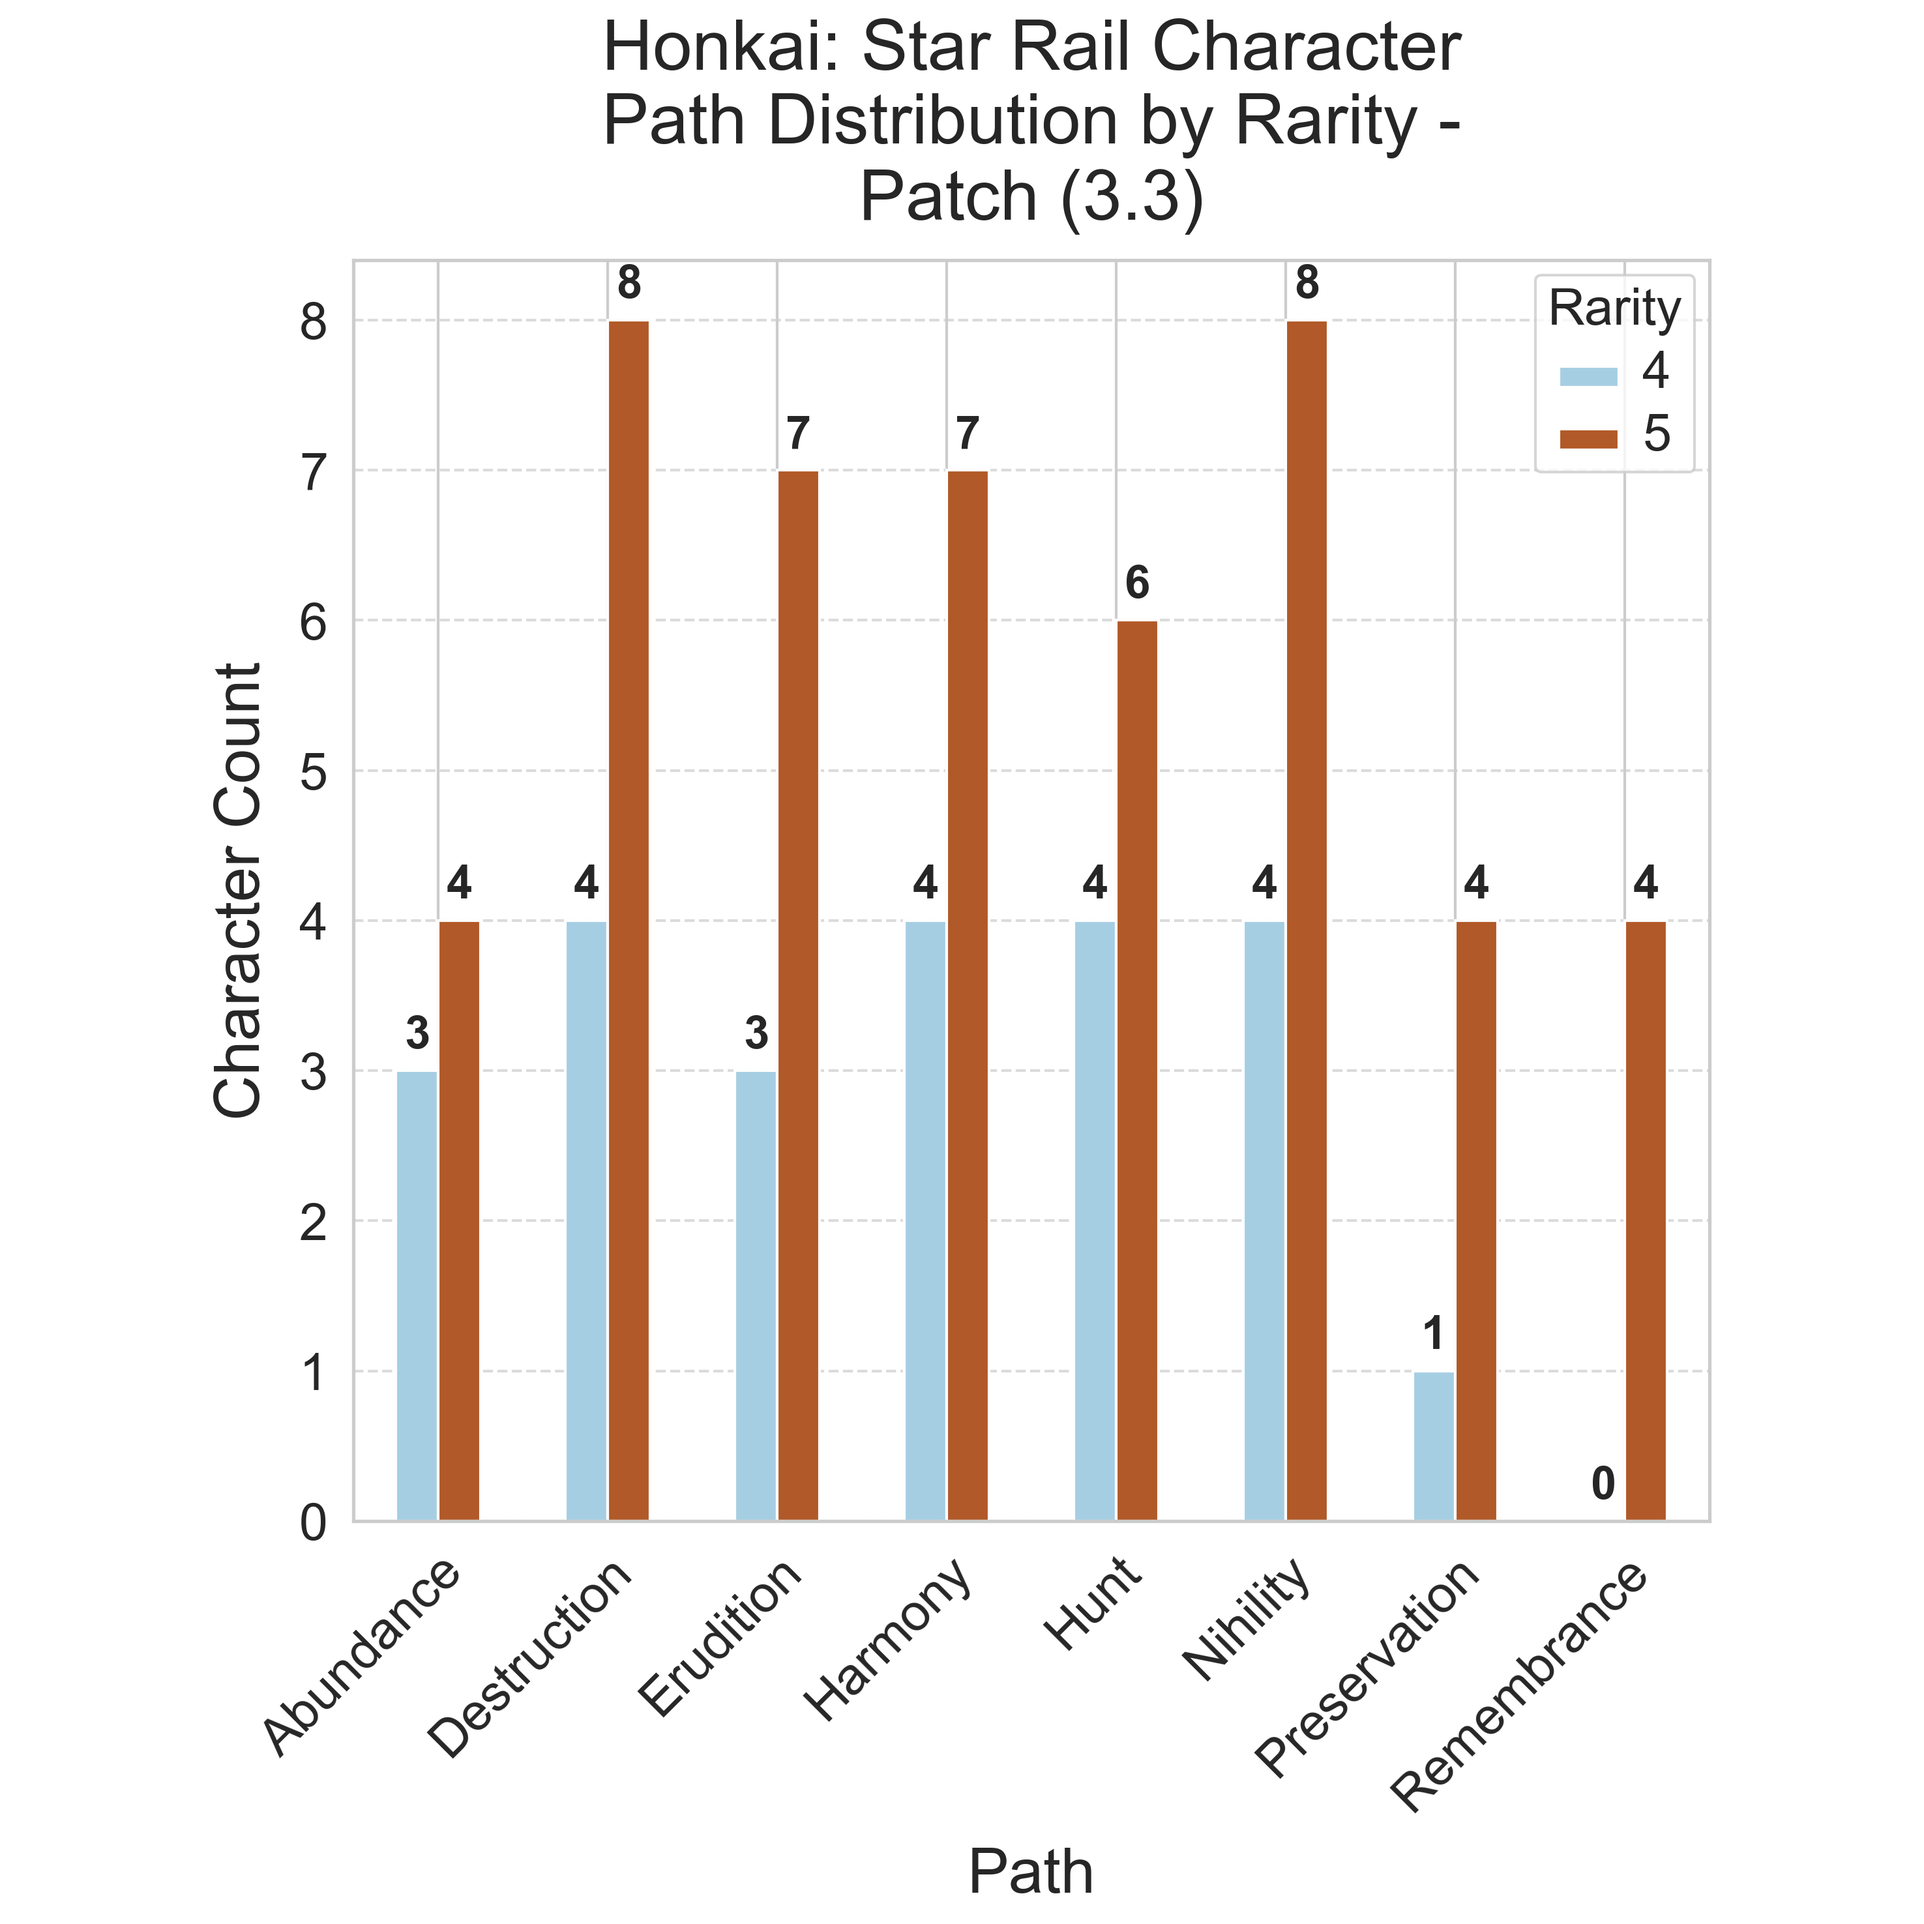
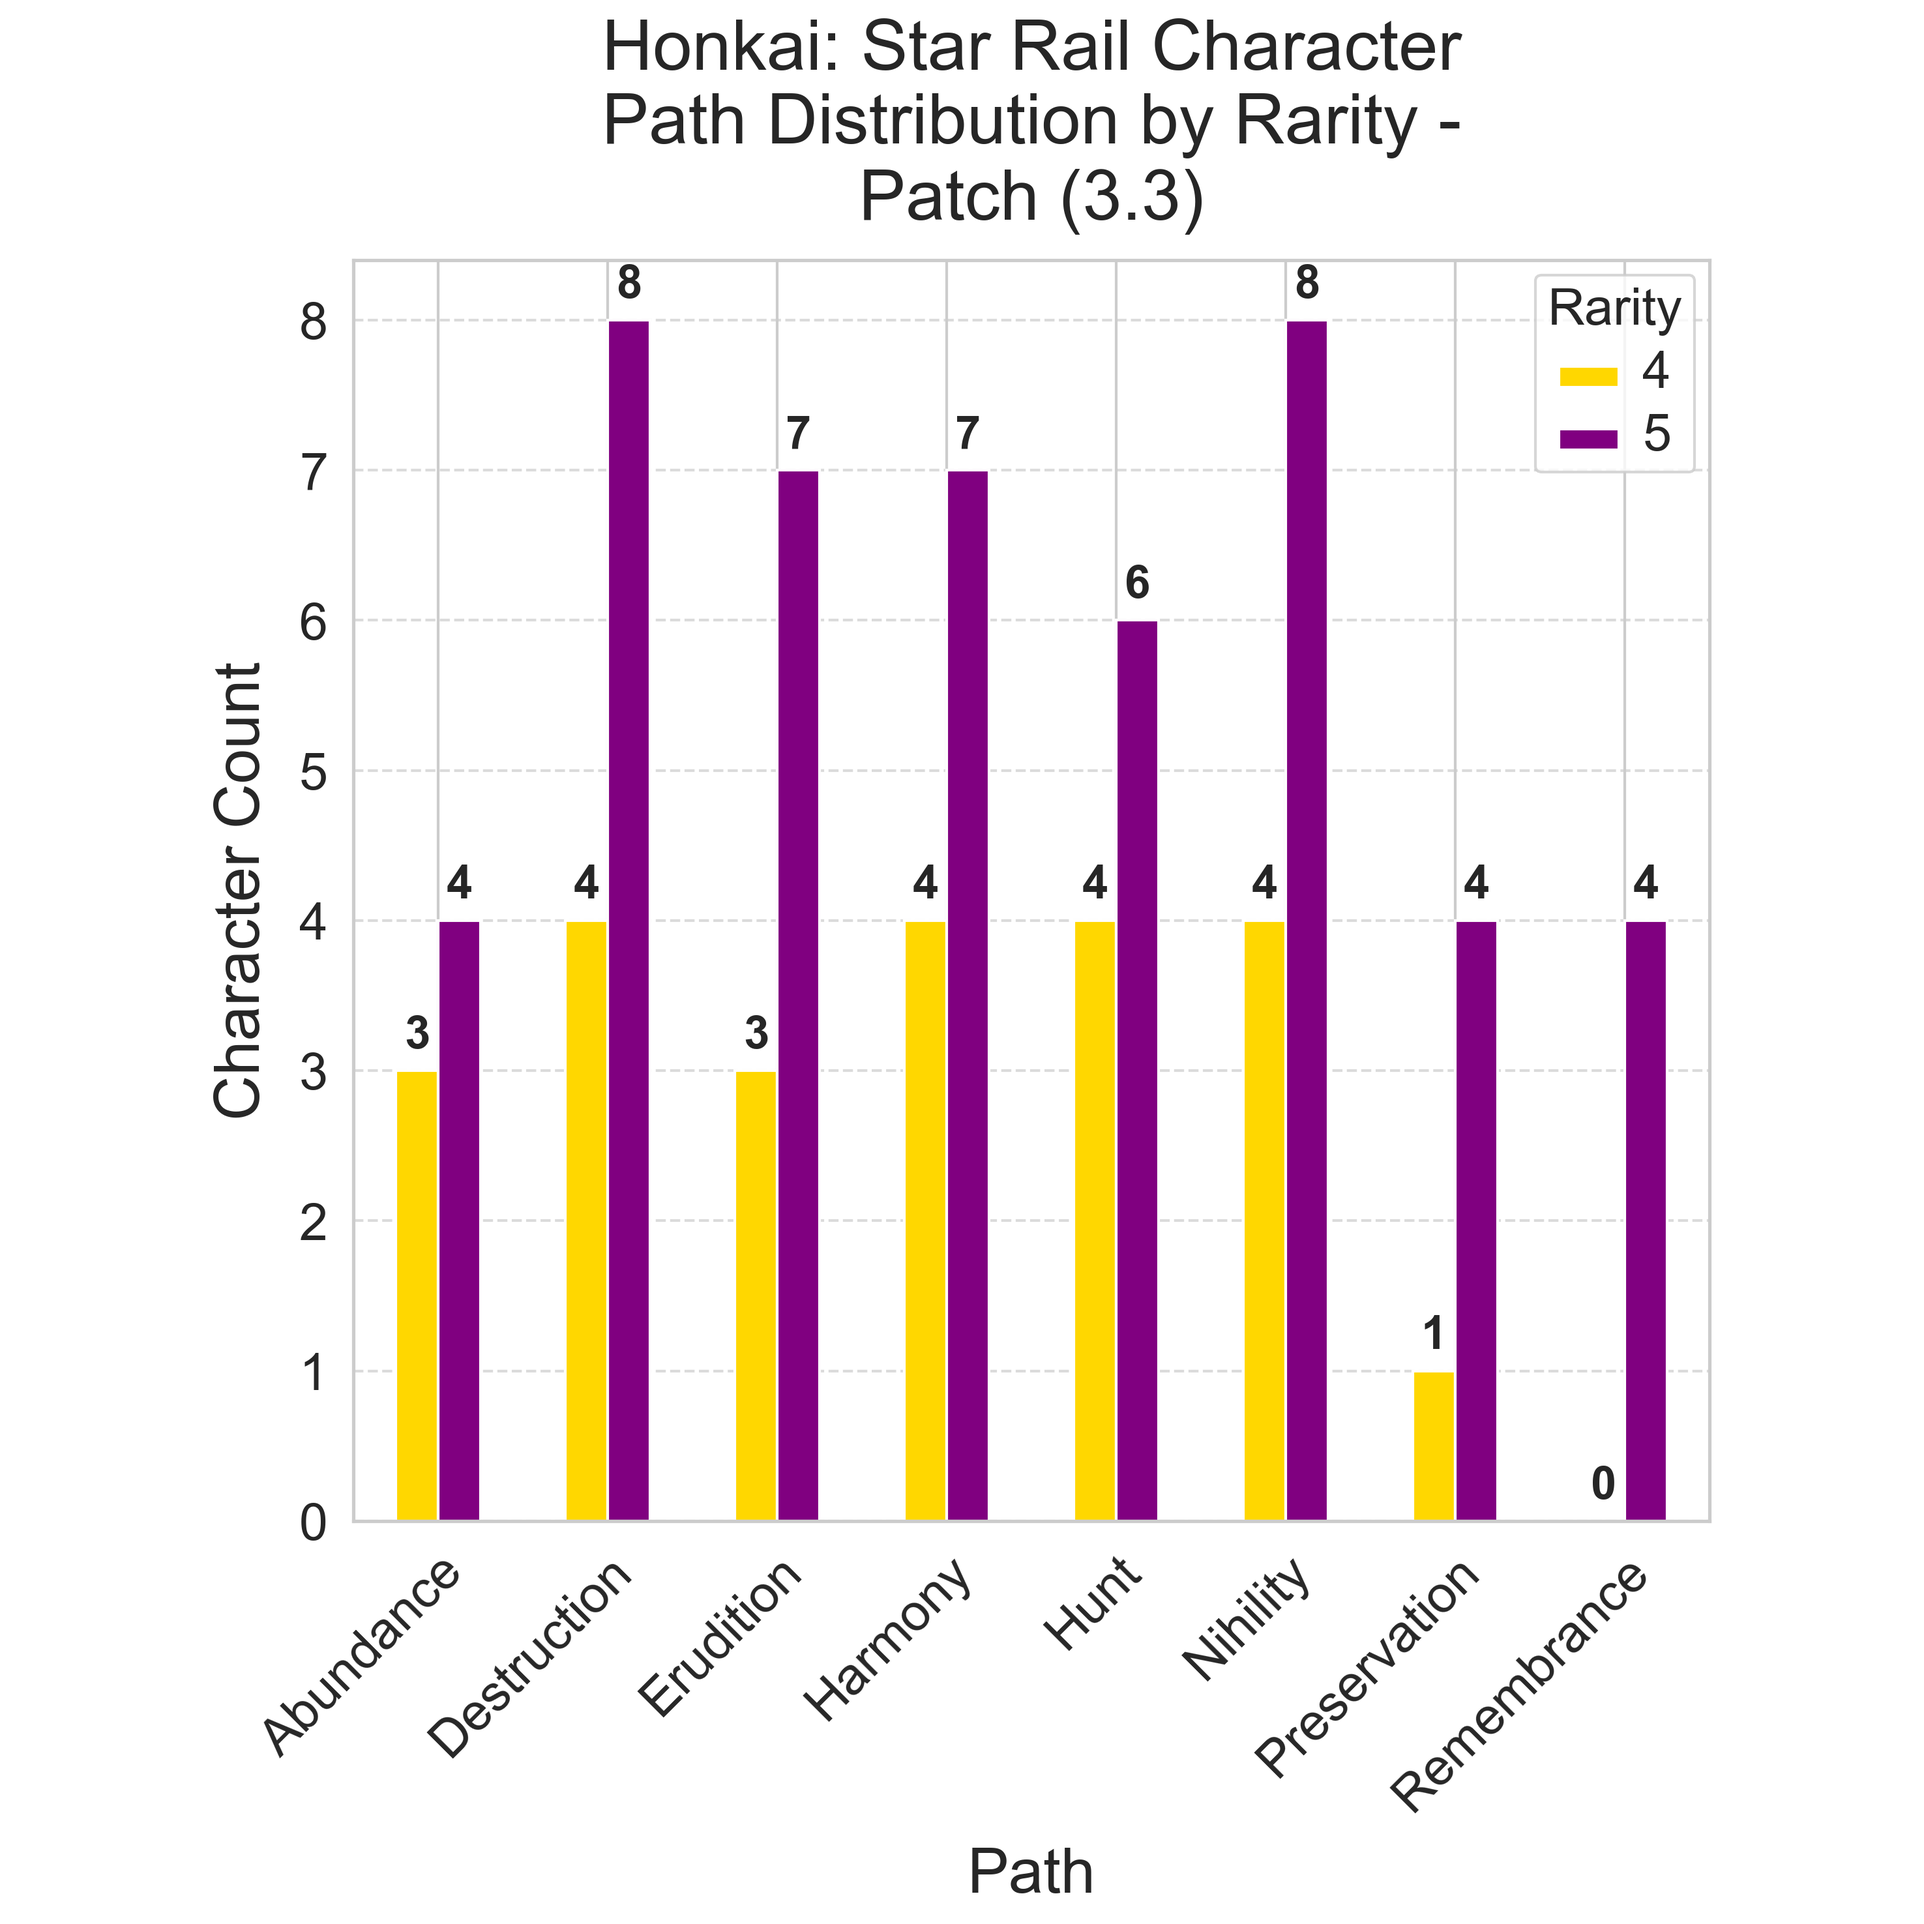
feat: add color mapping functions for elements, paths, and rarity levels; update plotting functions for grouped bar charts

diff --git a/hsrws/visual/plotting/plotting_bar.py b/hsrws/visual/plotting/plotting_bar.py
@@ -6,13 +6,14 @@ from loguru import logger
 
 from hsrws.visual.config import ChartConfig
 from hsrws.visual.plotting.plotting_base import _setup_chart_basics
+from hsrws.visual.data_utils import get_rarity_colors
 
 
 def plot_rarity_element_distribution(
     df: pd.DataFrame, config: ChartConfig = None, patch_version: str = None
 ) -> plt.Figure:
     """
-    Plot character rarity distribution with element breakdown as a stacked bar chart.
+    Plot character element distribution with rarity breakdown as a grouped bar chart.
 
     Args:
         df: DataFrame containing rarity, element, and count columns.
@@ -22,44 +23,66 @@ def plot_rarity_element_distribution(
     Returns:
         Matplotlib figure object.
     """
-    logger.debug("Plotting rarity-element stacked bar chart...")
+    logger.debug("Plotting element-rarity grouped bar chart...")
 
     # Use provided config or create default
     if config is None:
         config = ChartConfig()
 
-    # Pivot the dataframe for stacked bar format
+    # Pivot the dataframe for grouped bar format (Element on X-axis)
     pivot_df = df.pivot_table(
-        index="Rarity", columns="Element", values="count", fill_value=0
+        index="Element", columns="Rarity", values="count", fill_value=0
     )
 
-    # Create figure and axis with landscape ratio
-    fig, ax = plt.subplots(figsize=config.get_size("bar"))
+    # Get rarity-specific colors
+    rarity_colors = get_rarity_colors()
 
-    # Create stacked bar chart
-    pivot_df.plot(kind="bar", stacked=True, ax=ax, colormap=config.get_colormap("bar"))
+    # Create figure and axis with portrait ratio (4:5)
+    fig, ax = plt.subplots(figsize=config.get_size("grouped_bar"))
 
-    # Set up chart basics
-    title = config.get_title("bar")
+    # Create grouped bar chart with rarity-specific colors
+    pivot_df.plot(kind="bar", ax=ax, color=rarity_colors)
+
+    # Set up chart basics for portrait display
+    title = config.get_title("grouped_bar")
     _setup_chart_basics(
         fig,
         ax,
         config,
-        "bar",
+        "grouped_bar",
         title,
         patch_version,
-        x_label="Rarity",
+        x_label="Element",
         y_label="Character Count",
     )
 
-    # Configure legend
-    config.configure_legend(ax, "bar")
+    # Configure legend for top right position (override the default settings)
+    legend = ax.legend(title="Rarity", loc="upper right")
+
+    # Apply chart-specific font sizes for legend
+    legend.get_title().set_fontsize(config.get_font_size("legend", "grouped_bar"))
+    for text in legend.get_texts():
+        text.set_fontsize(config.get_font_size("legend", "grouped_bar"))
+
+    # Add data value annotations
+    annotation_settings = config.get_annotation_settings("grouped_bar")
+    for container in ax.containers:
+        ax.bar_label(
+            container,
+            fmt=annotation_settings.get("fmt", "%.0f"),
+            padding=annotation_settings.get("padding", 5),
+            fontsize=config.get_font_size("annotation", "grouped_bar"),
+            fontweight=annotation_settings.get("fontweight", "normal"),
+        )
+
+    # Add grid for better readability in vertical layout
+    config.configure_grid(ax, "grouped_bar")
 
     if config.tight_layout:
         plt.tight_layout()
     else:
-        # Adjust for landscape ratio
-        plt.subplots_adjust(bottom=0.15, left=0.1, right=0.9)
+        # Adjust for portrait ratio
+        plt.subplots_adjust(bottom=0.2, top=0.9)
 
     return fig
 
@@ -89,11 +112,14 @@ def plot_path_rarity_distribution(
         index="Path", columns="Rarity", values="count", fill_value=0
     )
 
+    # Get rarity-specific colors
+    rarity_colors = get_rarity_colors()
+
     # Create figure and axis with portrait ratio (4:5)
     fig, ax = plt.subplots(figsize=config.get_size("grouped_bar"))
 
-    # Create grouped bar chart
-    pivot_df.plot(kind="bar", ax=ax, colormap=config.get_colormap("grouped_bar"))
+    # Create grouped bar chart with rarity-specific colors
+    pivot_df.plot(kind="bar", ax=ax, color=rarity_colors)
 
     # Set up chart basics for portrait display
     title = config.get_title("grouped_bar")

diff --git a/hsrws/visual/data_utils.py b/hsrws/visual/data_utils.py
@@ -127,3 +127,51 @@ def get_path_rarity_distribution_data():
         DataFrame with Path-Rarity distribution data.
     """
     return fetch_data_orm(get_path_rarity_distribution_stmt())
+
+
+def get_element_colors():
+    """
+    Gets a mapping of elements to their display colors.
+    
+    Returns:
+        Dictionary mapping element names to color values.
+    """
+    return {
+        "Fire": "red",
+        "Lightning": "purple",
+        "Quantum": "darkblue",
+        "Ice": "lightblue",
+        "Imaginary": "yellow",
+        "Wind": "green",
+        "Physical": "gray",
+    }
+    
+def get_path_colors():
+    """
+    Gets a mapping of paths to their display colors.
+    
+    Returns:
+        Dictionary mapping path names to color values.
+    """
+    return {
+        "Destruction": "grey",
+        "Preservation": "blue",
+        "Remembrance": "cyan",
+        "Nihility": "purple",
+        "Abundance": "yellow",
+        "Hunt": "green",
+        "Erudition": "pink",
+        "Harmony": "orange",
+    }
+    
+def get_rarity_colors():
+    """
+    Gets a mapping of rarity levels to their display colors.
+    
+    Returns:
+        Dictionary mapping rarity levels to color values.
+    """
+    return {
+        "4": "gold", 
+        "5": "purple",
+    }
